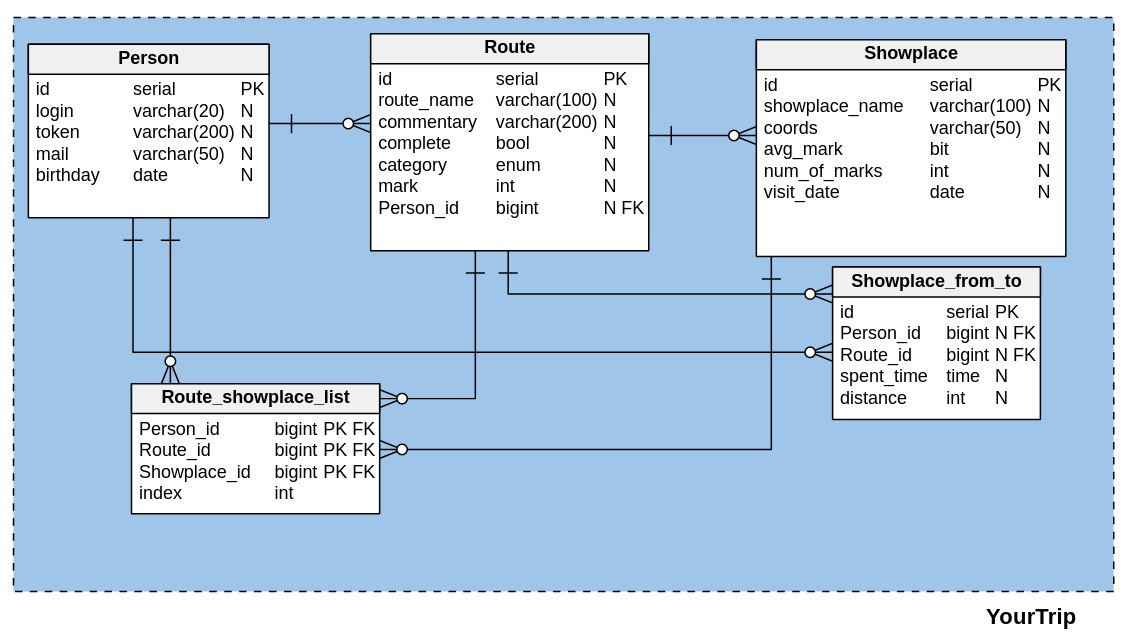
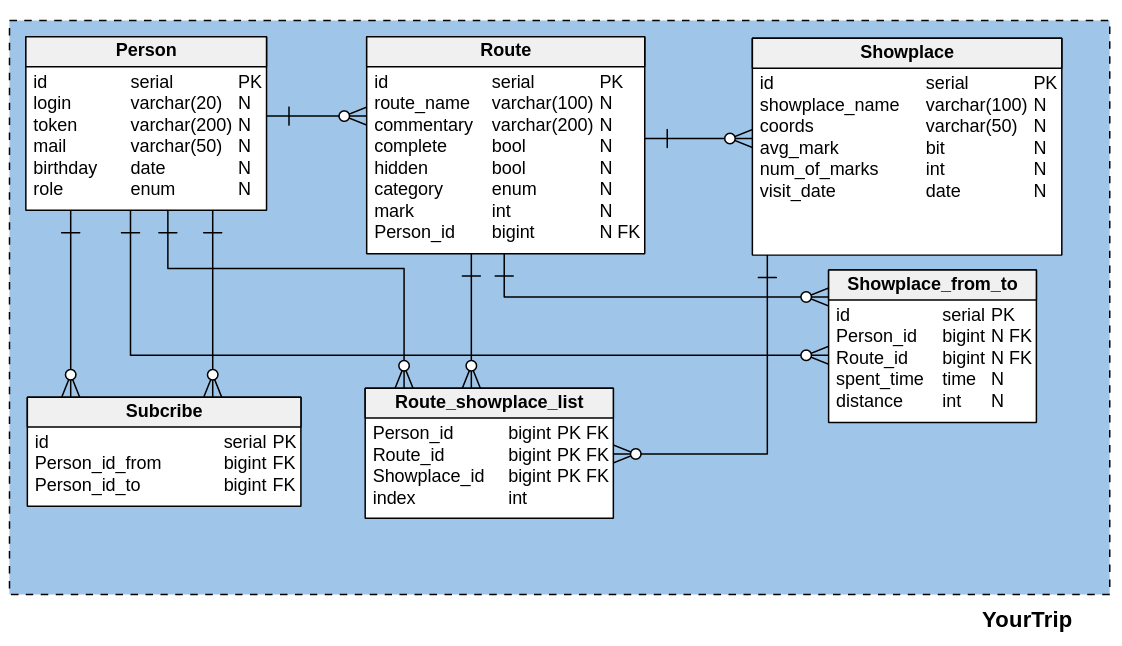
fixed db structure (added table Subscribe)

Changed region(s): [[0.0, 0.0, 0.9982, 0.989]]

diff --git a/yourtrip/src/test/java/DatabaseModelTest.java b/yourtrip/src/test/java/DatabaseModelTest.java
@@ -1,11 +1,5 @@
-import dao.Database;
-import dao.PersonDao;
-import dao.RouteDao;
-import dao.ShowplaceDao;
-import model.Category;
-import model.Person;
-import model.Route;
-import model.Showplace;
+import dao.*;
+import model.*;
 import org.hibernate.Session;
 import org.hibernate.Transaction;
 import org.junit.Before;
@@ -27,11 +21,11 @@ public class DatabaseModelTest {
         Transaction txn = session.beginTransaction();
         // cleaning table Person
         PersonDao.getInstance().clean(session);
-        Person person = new Person("test", "qwerty", "lol@gmail.com", new Date(System.currentTimeMillis()));
+        Person person = new Person("test", "qwerty", "lol@gmail.com", new Date(System.currentTimeMillis()), Role.normal.toString());
 
         // adding person instance to table Person
         PersonDao.getInstance().insert(session, person);
-        Route route = new Route("home", "", true, Category.romantic.toString(), 5, person);
+        Route route = new Route("home", "", true, false, Category.romantic.toString(), 5, person);
 
         // adding route instance to table Route
         RouteDao.getInstance().insert(session, route);
@@ -59,6 +53,24 @@ public class DatabaseModelTest {
         ShowplaceDao.getInstance().clean(session);
         ShowplaceDao.getInstance().insert(session, showplace);
         ShowplaceDao.getInstance().getAll(session);
+        txn.commit();
+        session.close();
+    }
+
+    @Test
+    public void subscribeTest() throws Exception {
+        Session session = Database.session();
+        Transaction txn = session.beginTransaction();
+        PersonDao.getInstance().clean(session);
+        Person person = new Person("test", "qwerty", "lol@gmail.com", new Date(System.currentTimeMillis()), Role.normal.toString());
+        PersonDao.getInstance().insert(session, person);
+        Person person2 = new Person("test2", "qwerty", "lol@gmail.com", new Date(System.currentTimeMillis()), Role.normal.toString());
+        PersonDao.getInstance().insert(session, person2);
+        person = PersonDao.getInstance().getByName(session, "test").get(0);
+        person2 = PersonDao.getInstance().getByName(session, "test2").get(0);
+        Subscribe subscribe = new Subscribe(person, person2);
+        SubscribeDao.getInstance().clean(session);
+        SubscribeDao.getInstance().insert(session, subscribe);
         txn.commit();
         session.close();
     }

diff --git a/yourtrip/src/main/java/model/Person.java b/yourtrip/src/main/java/model/Person.java
@@ -33,6 +33,9 @@ public class Person implements Serializable {
     @Column(name = "birthday", nullable = false)
     private Date birthday;
 
+    @Column(name = "role", nullable = false)
+    private String role;
+
     @OneToMany(cascade = CascadeType.ALL, orphanRemoval = true, mappedBy="personR")
     private Set<Route> routesP;
 
@@ -42,12 +45,19 @@ public class Person implements Serializable {
     @OneToMany(cascade = CascadeType.ALL, orphanRemoval = true, mappedBy="personL")
     private Set<Route_showplace_list> route_showplace_listsP;
 
+    @OneToMany(cascade = CascadeType.ALL, orphanRemoval = true, mappedBy="personS")
+    private Set<Subscribe> subscribesP;
+
+    @OneToMany(cascade = CascadeType.ALL, orphanRemoval = true, mappedBy="personS2")
+    private Set<Subscribe> subscribesP2;
+
     public Person() { }
 
-    public Person(String login, String password, String mail, Date birthday) {
+    public Person(String login, String password, String mail, Date birthday, String role) {
         this.login = login;
         this.mail = mail;
         this.birthday = birthday;
+        this.role = role;
         this.hash = HashGenerator.hashPassword(password);
     }
 
@@ -91,6 +101,14 @@ public class Person implements Serializable {
         this.birthday = birthday;
     }
 
+    public String getRole() {
+        return role;
+    }
+
+    public void setRole(String role) {
+        this.role = role;
+    }
+
     @Override
     public String toString() {
         return "Person{" +
@@ -99,6 +117,7 @@ public class Person implements Serializable {
                 ", hash='" + hash + '\'' +
                 ", mail='" + mail + '\'' +
                 ", birthday=" + birthday +
+                ", role=" + role +
                 '}';
     }
 

diff --git a/yourtrip/src/main/java/model/Subscribe.java b/yourtrip/src/main/java/model/Subscribe.java
@@ -1,0 +1,74 @@
+package model;
+
+import javax.persistence.*;
+
+@Entity
+@Table(name = "Subscribe", schema = "yourtrip")
+public class Subscribe {
+    @Id
+    @GeneratedValue(strategy = GenerationType.IDENTITY)
+    private Integer id;
+
+    @ManyToOne
+    @JoinColumn(name = "person_id_from")
+    private Person personS;
+
+    @ManyToOne
+    @JoinColumn(name = "person_id_to")
+    private Person personS2;
+
+    public Integer getId() {
+        return id;
+    }
+
+    public void setId(Integer id) {
+        this.id = id;
+    }
+
+    public Person getPersonS() {
+        return personS;
+    }
+
+    public void setPersonS(Person personS) {
+        this.personS = personS;
+    }
+
+    public Person getPersonS2() {
+        return personS2;
+    }
+
+    public void setPersonS2(Person personS2) {
+        this.personS2 = personS2;
+    }
+
+    public Subscribe() { }
+
+    public Subscribe(Person personS, Person personS2) {
+        this.personS = personS;
+        this.personS2 = personS2;
+    }
+
+    @Override
+    public String toString() {
+        return "Subscribe{" +
+                "id=" + id +
+                ", personS=" + personS +
+                ", personS2=" + personS2 +
+                '}';
+    }
+
+    @Override
+    public boolean equals(Object o) {
+        if (this == o) return true;
+        if (!(o instanceof Subscribe)) return false;
+
+        Subscribe subscribe = (Subscribe) o;
+
+        return getId() != null ? getId().equals(subscribe.getId()) : subscribe.getId() == null;
+    }
+
+    @Override
+    public int hashCode() {
+        return getId() != null ? getId().hashCode() : 0;
+    }
+}

diff --git a/yourtrip/src/main/java/model/Route.java b/yourtrip/src/main/java/model/Route.java
@@ -24,6 +24,9 @@ public class Route implements Serializable {
     @Column(name = "complete", nullable = false)
     private Boolean complete;
 
+    @Column(name = "hidden", nullable = false)
+    private Boolean hidden;
+
     @Column(name = "category", nullable = false)
     private String category;
 
@@ -42,10 +45,11 @@ public class Route implements Serializable {
 
     public Route() { }
 
-    public Route(String route_name, String commentary, Boolean complete, String category, Integer mark, Person personR) {
+    public Route(String route_name, String commentary, Boolean complete, Boolean hidden,  String category, Integer mark, Person personR) {
         this.route_name = route_name;
         this.commentary = commentary;
         this.complete = complete;
+        this.hidden = hidden;
         this.category = category;
         this.mark = mark;
         this.personR = personR;
@@ -58,6 +62,7 @@ public class Route implements Serializable {
                 ", route_name=" + route_name +
                 ", commentary='" + commentary + '\'' +
                 ", complete=" + complete +
+                ", hidden=" + hidden +
                 ", category=" + category +
                 ", mark=" + mark +
                 ", person=" + personR +
@@ -94,6 +99,14 @@ public class Route implements Serializable {
 
     public void setComplete(Boolean complete) {
         this.complete = complete;
+    }
+
+    public Boolean getHidden() {
+        return hidden;
+    }
+
+    public void setHidden(Boolean hidden) {
+        this.hidden = hidden;
     }
 
     public String getCategory() {

diff --git a/yourtrip/src/main/java/dao/SubscribeDao.java b/yourtrip/src/main/java/dao/SubscribeDao.java
@@ -1,0 +1,53 @@
+package dao;
+
+import model.Subscribe;
+import org.hibernate.Session;
+
+import java.util.List;
+
+public class SubscribeDao {
+    private static SubscribeDao ourInstance = new SubscribeDao();
+
+    public static SubscribeDao getInstance() {
+        return ourInstance;
+    }
+
+    private SubscribeDao() {
+    }
+
+    public List<Subscribe> getAll(Session session) {
+        return session.createCriteria(Subscribe.class).list();
+    }
+
+    public void insert(Session session, Subscribe result) {
+        session.saveOrUpdate(result);
+    }
+
+    public void clean(Session session) {
+        List<Subscribe> results = getAll(session);
+        results.forEach(s -> session.delete(s));
+        if (results.size() > 0) {
+            session.flush();
+        }
+    }
+
+    public void remove(Session session, Subscribe Subscribe) {
+        session.remove(Subscribe);
+        session.flush();
+    }
+
+    public List<Subscribe> getById(Session session, Integer id) {
+        return session
+                .createQuery("from Subscribe where id = :id")
+                .setParameter("id", id)
+                .getResultList();
+    }
+
+    public boolean existSubscribe(Session session, Integer id_from, Integer id_to) {
+        return session
+                .createQuery("from Subscribe where person_id_from = :person_id_from and person_id_to = :person_id_to")
+                .setParameter("person_id_from", id_from)
+                .setParameter("person_id_to", id_to)
+                .getResultList().size() > 0;
+    }
+}

diff --git a/yourtrip/src/main/java/dao/PersonDao.java b/yourtrip/src/main/java/dao/PersonDao.java
@@ -34,7 +34,9 @@ public class PersonDao {
     public void remove(Session session, Person person) {
         session.delete(person);
         List<Person> results = getAll(session);
-        session.flush();
+        if (results.size() > 0) {
+            session.flush();
+        }
     }
 
     public List<Person> getById(Session session, Integer id) {

diff --git a/yourtrip/src/main/java/model/Role.java b/yourtrip/src/main/java/model/Role.java
@@ -1,0 +1,6 @@
+package model;
+
+public enum Role {
+    normal,
+    admin
+}
